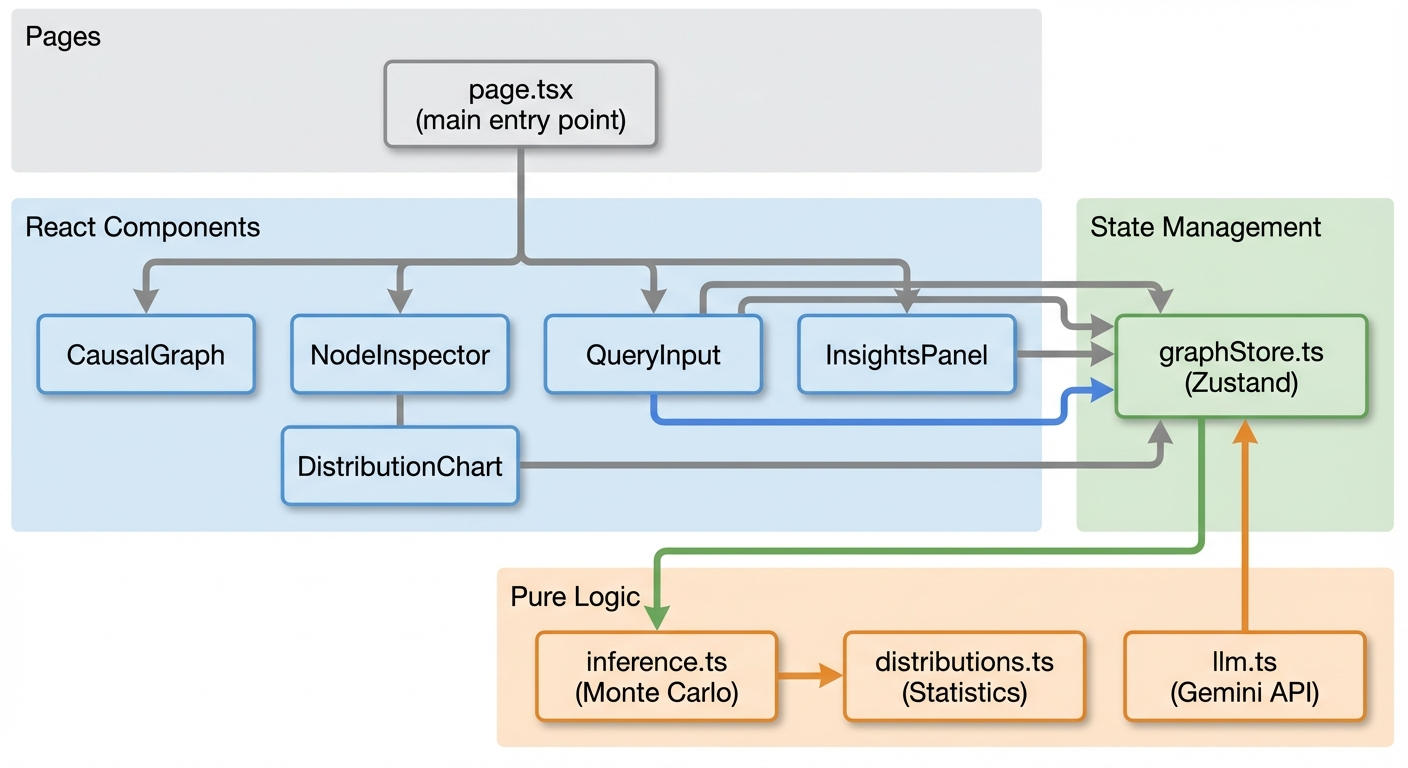
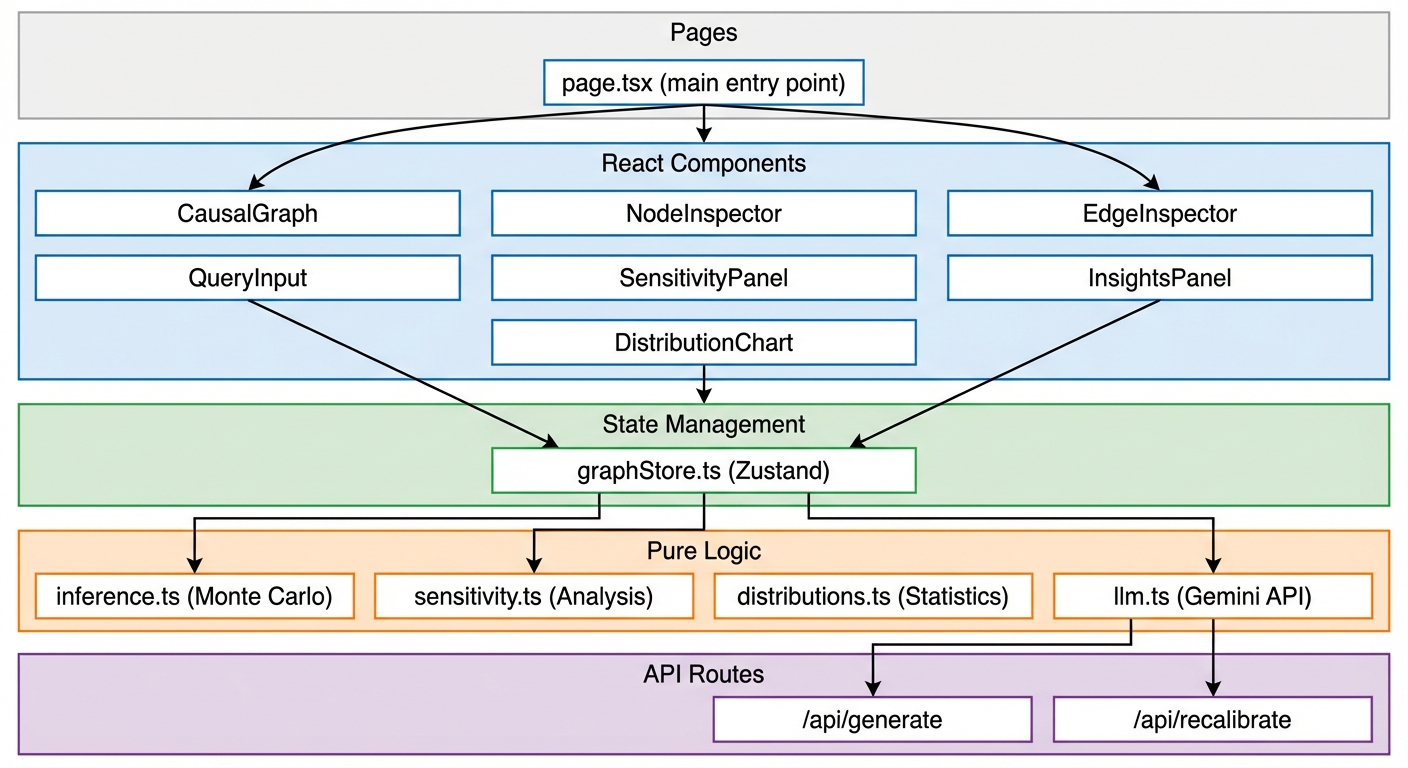
update doc to reflect changes

diff --git a/docs/CausalModeling.md b/docs/CausalModeling.md
@@ -146,41 +146,58 @@ Parameters:
 ### Multiplicative Effects
 
 ```
-child = base × factor^(parent/baseline)
+doublings = log₂(parent / baseline)
+multiplier = factor^doublings
+child = base × multiplier
 ```
 
-For relationships where the effect scales rather than shifts—changes multiply the outcome rather than adding to it.
+For relationships where the effect scales rather than shifts—the `factor` represents how much the child scales when the parent doubles from its baseline.
 
 Use for: amplification, compounding, confidence effects
 - Consumer confidence → spending (confidence amplifies spending)
 - Risk perception → investment (fear multiplies caution)
 - Network effects → adoption (each user multiplies value)
+- Compound growth effects (interest, viral spread)
 
 Parameters:
-- `factor`: multiplicative strength (>1 amplifies, <1 dampens)
-- `baseline`: parent value that produces no scaling (factor^0 = 1)
+- `factor`: how much child scales when parent doubles (e.g., 2.0 means child doubles when parent doubles)
+- `baseline`: reference parent value (typically the prior mean) where multiplier = 1
 
-The multiplier is capped to 0.1×–10× to prevent numerical explosion.
+The multiplier is capped to 0.5×–2× with damping to prevent numerical explosion while preserving relative ordering of samples.
 
 ### Threshold Effects
 
 ```
-child = base + below × (1 - σ) + above × σ
-where σ = sigmoid(smoothness × (parent - cutoff))
+multiplier = 1 + coefficient × (parent - cutoff) / |cutoff|
+where coefficient = below × (1 - σ) + above × σ
+and σ = sigmoid(smoothness × (parent - cutoff))
 ```
 
-For regime changes—relationships that behave differently above and below a threshold.
+For regime changes—relationships that behave differently above and below a threshold. The `below` and `above` parameters are sensitivity coefficients that determine how strongly the child responds to parent deviations from the cutoff in each regime.
 
 Use for: tipping points, phase transitions, policy thresholds
-- Unemployment → inflation (Phillips curve has a threshold)
-- Stress → crisis (systems absorb small shocks, break under large ones)
+- Debt-to-GDP → risk premium (markets react more sharply above sustainability thresholds)
+- Server load → response time (graceful below capacity, exponential degradation above)
 - Temperature → ice melt (phase transition at 0°C)
 
 Parameters:
-- `cutoff`: threshold value
-- `below`: effect when parent is below cutoff
-- `above`: effect when parent is above cutoff
+- `cutoff`: threshold value where regime changes
+- `below`: sensitivity coefficient when parent < cutoff
+- `above`: sensitivity coefficient when parent > cutoff
 - `smoothness`: how sharp the transition is (higher = sharper)
+
+**Choosing Coefficients by Severity:**
+
+| Regime | Range | Use For |
+|--------|-------|---------|
+| Subtle | 0.3-0.8 | Minor sensitivity differences, soft preferences |
+| Moderate | 0.8-2.0 | Noticeable regime changes, risk premiums, congestion |
+| Sharp | 2.0-5.0 | Capacity limits, policy triggers, stress thresholds |
+| Near-binary | 5.0-10.0 | System failures, safety limits, breaking points |
+| Catastrophic | 10.0+ | Structural collapse, cascading failures, point-of-no-return |
+
+Example: Debt-to-GDP at 120% (moderate regime change): `below=0.5, above=1.5`
+Example: Bridge load at 100% capacity (catastrophic): `below=0.1, above=12.0`
 
 ### Logistic Effects
 
@@ -283,3 +300,43 @@ The LLM is prompted to produce models that are:
 - **Coherent**: The causal story makes sense to domain experts
 
 This is an art more than a science—prompt engineering to get consistently good models is ongoing work.
+
+## Sensitivity Analysis
+
+Sensitivity analysis tests how changes to exogenous (input) nodes propagate through the model to affect terminal (output) nodes. This helps identify:
+
+1. **Strong effects**: Pathways where small input changes produce large output changes
+2. **Weak effects**: Pathways where input changes barely register in outputs (may indicate coefficient problems)
+3. **Asymmetric effects**: Pathways where increases and decreases have different magnitudes (common with threshold effects)
+4. **Bottlenecks**: Points where signal gets attenuated, preventing input changes from reaching outputs
+
+### How It Works
+
+The analysis runs interventions at ±25% and ±50% of each exogenous node's prior mean, then measures the resulting changes in all downstream nodes:
+
+1. Compute baseline distributions with no interventions
+2. For each exogenous node and each intervention level:
+   - Set the intervention value
+   - Run Monte Carlo propagation
+   - Compare resulting distributions to baseline
+   - Record both percentage and absolute changes
+3. Aggregate results to identify patterns
+
+### Bottleneck Detection
+
+A bottleneck occurs when a large input change (50%) produces a small terminal output change (<10%). The analysis traces the causal path to identify the intermediate node with the smallest change—this is likely where the signal is being lost.
+
+Common causes:
+- Threshold effect coefficients too small for the domain
+- Multiplicative effects with factors too close to 1.0
+- Circuit breakers clamping values before they can propagate
+
+### AI Recalibration
+
+When sensitivity analysis identifies issues, the "Recalibrate with AI" feature sends the analysis report to an LLM along with the current model. The LLM suggests specific edge coefficient changes to fix:
+
+- Weak effects by increasing coefficients along the path
+- Asymmetric effects by adjusting threshold or multiplicative parameters
+- Bottlenecks by strengthening the weakest link in the chain
+
+The suggested changes are applied automatically, and the analysis re-runs to verify improvement.

diff --git a/docs/Architecture.md b/docs/Architecture.md
@@ -46,13 +46,21 @@ The codebase separates concerns into three layers: React components handle user 
 
 ### Components
 
-The UI is built from five React components. CausalGraph handles the visualization—it dynamically loads dagre for layout computation, then uses D3 to render the SVG with nodes, edges, and a zone legend. When users click nodes, the component notifies the store, which updates the selection state and triggers the NodeInspector to appear.
+The UI is built from seven primary React components.
 
-NodeInspector is where users interact with individual variables. It displays the node's description and shows its probability distribution as a density curve. The intervention slider lets users set a value, and clicking "Set Value" triggers the inference engine to propagate effects through the graph.
+**CausalGraph** handles the visualization—it dynamically loads dagre for layout computation, then uses D3 to render the SVG with nodes, edges, and a zone legend. When users click nodes or edges, the component notifies the store, which updates the selection state and triggers the appropriate inspector.
 
-QueryInput handles model generation—users type a causal question, click Generate, and wait for the LLM to return a model. The component manages loading state and error handling, then hands the resulting model to the store.
+**NodeInspector** is where users interact with individual variables. It displays the node's description and shows its probability distribution as a density curve. The intervention slider lets users set a value, and clicking "Set Value" triggers the inference engine to propagate effects through the graph. Terminal nodes show a read-only view since they have no downstream effects to propagate.
 
-DistributionChart and InsightsPanel round out the UI. The chart renders small KDE curves with percentile markers. The insights panel shows LLM-generated observations about the causal structure.
+**EdgeInspector** allows direct editing of causal effect functions. Users can switch between effect types (linear, multiplicative, threshold, logistic) and adjust parameters. Changes apply immediately with a sticky "Apply Changes" button that remains visible during scrolling.
+
+**SensitivityPanel** runs comprehensive sensitivity analysis across all exogenous nodes. It tests interventions at ±25% and ±50%, identifies weak effects, asymmetric responses, and bottlenecks, and offers AI-powered recalibration to fix issues.
+
+**QueryInput** handles model generation—users type a causal question, click Generate, and wait for the LLM to return a model. The component manages loading state and error handling, then hands the resulting model to the store.
+
+**DistributionChart** renders probability distributions as small KDE curves with percentile markers (p5, mean, p95). Used in NodeInspector to show how a variable's uncertainty has shifted.
+
+**InsightsPanel** displays LLM-generated observations about the causal structure—key relationships, potential feedback loops, and notable thresholds in the model.
 
 ### State Management
 
@@ -65,3 +73,13 @@ When interventions change, the store automatically triggers recomputation. The i
 The graph renders as SVG using D3 for element manipulation and dagre for layout. Dagre computes node positions that minimize edge crossings while maintaining a top-to-bottom causal flow—causes appear above their effects.
 
 The rendering rebuilds the entire SVG on each update, layering elements in order: arrow marker definitions, the zone legend bar, edge paths with arrowheads, and finally node groups containing shapes and labels. Node shapes communicate type at a glance—parallelograms for exogenous inputs, rounded rectangles for intermediate variables, hard rectangles for terminal outcomes. Selected and intervened nodes get visual emphasis through borders, shadows, and color changes.
+
+### API Routes
+
+Two Next.js API routes handle server-side LLM communication:
+
+**`/api/generate`** receives a natural language query and returns a complete causal model. The route calls Gemini with a detailed system prompt specifying the SCM schema, effect type guidelines, and validation requirements. The response is validated and repaired if needed (fixing disconnected components, correcting node types).
+
+**`/api/recalibrate`** receives a model and sensitivity analysis report, then returns coefficient adjustments. The LLM analyzes bottlenecks and weak effects, suggesting specific edge changes. The route applies these changes and returns the updated model along with a summary of modifications.
+
+Both routes keep the Gemini API key server-side while allowing the client to trigger LLM operations.
